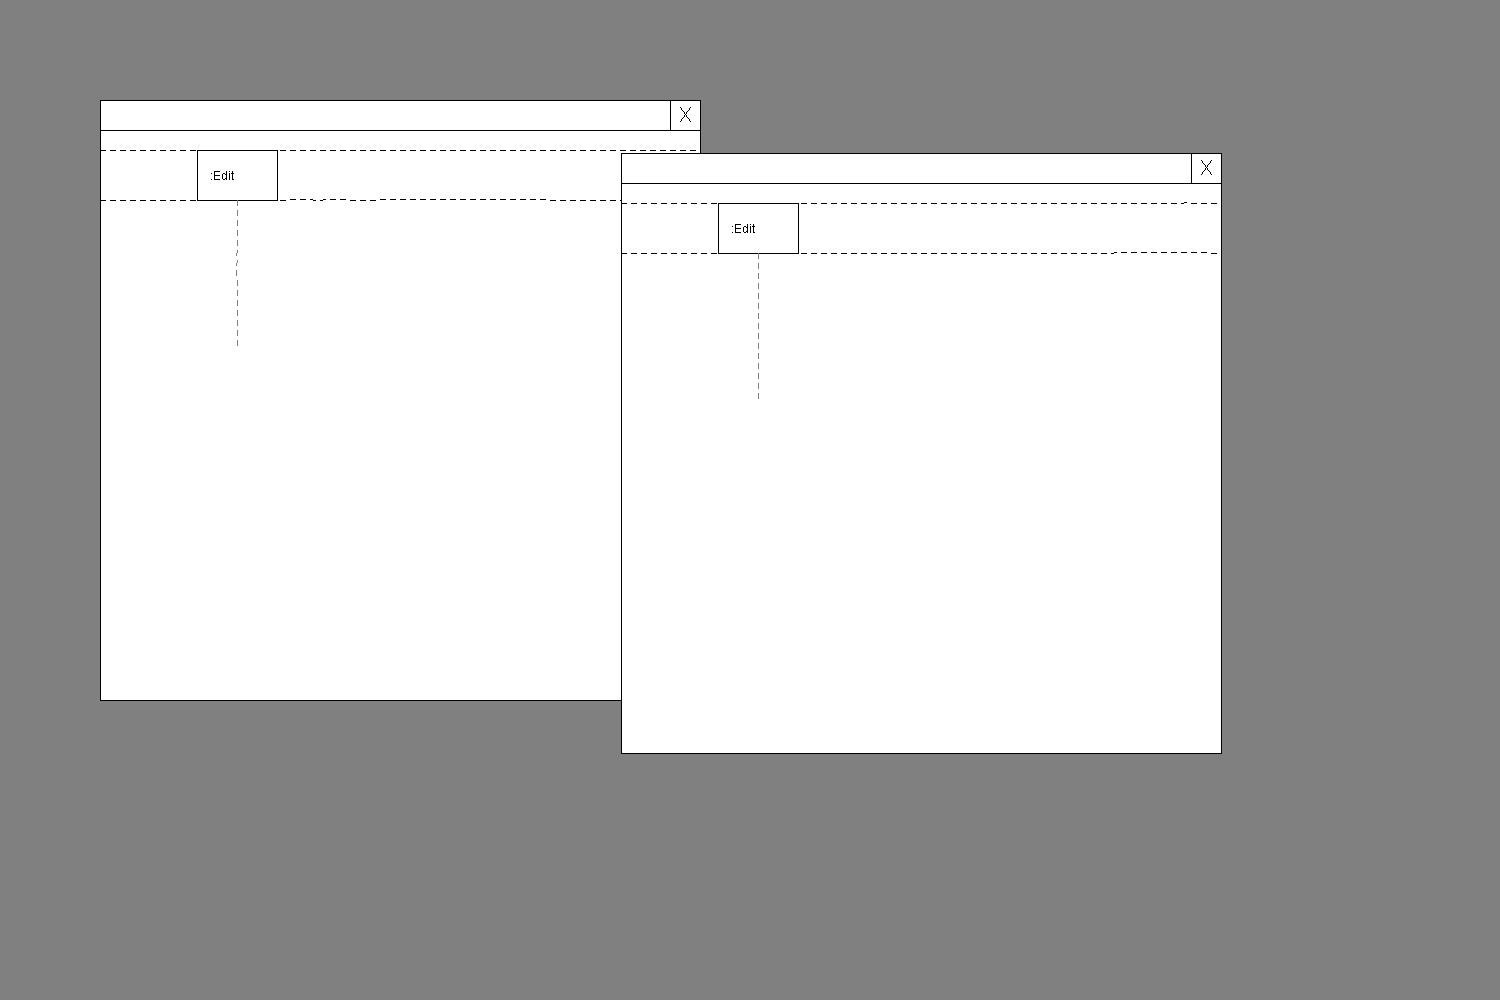
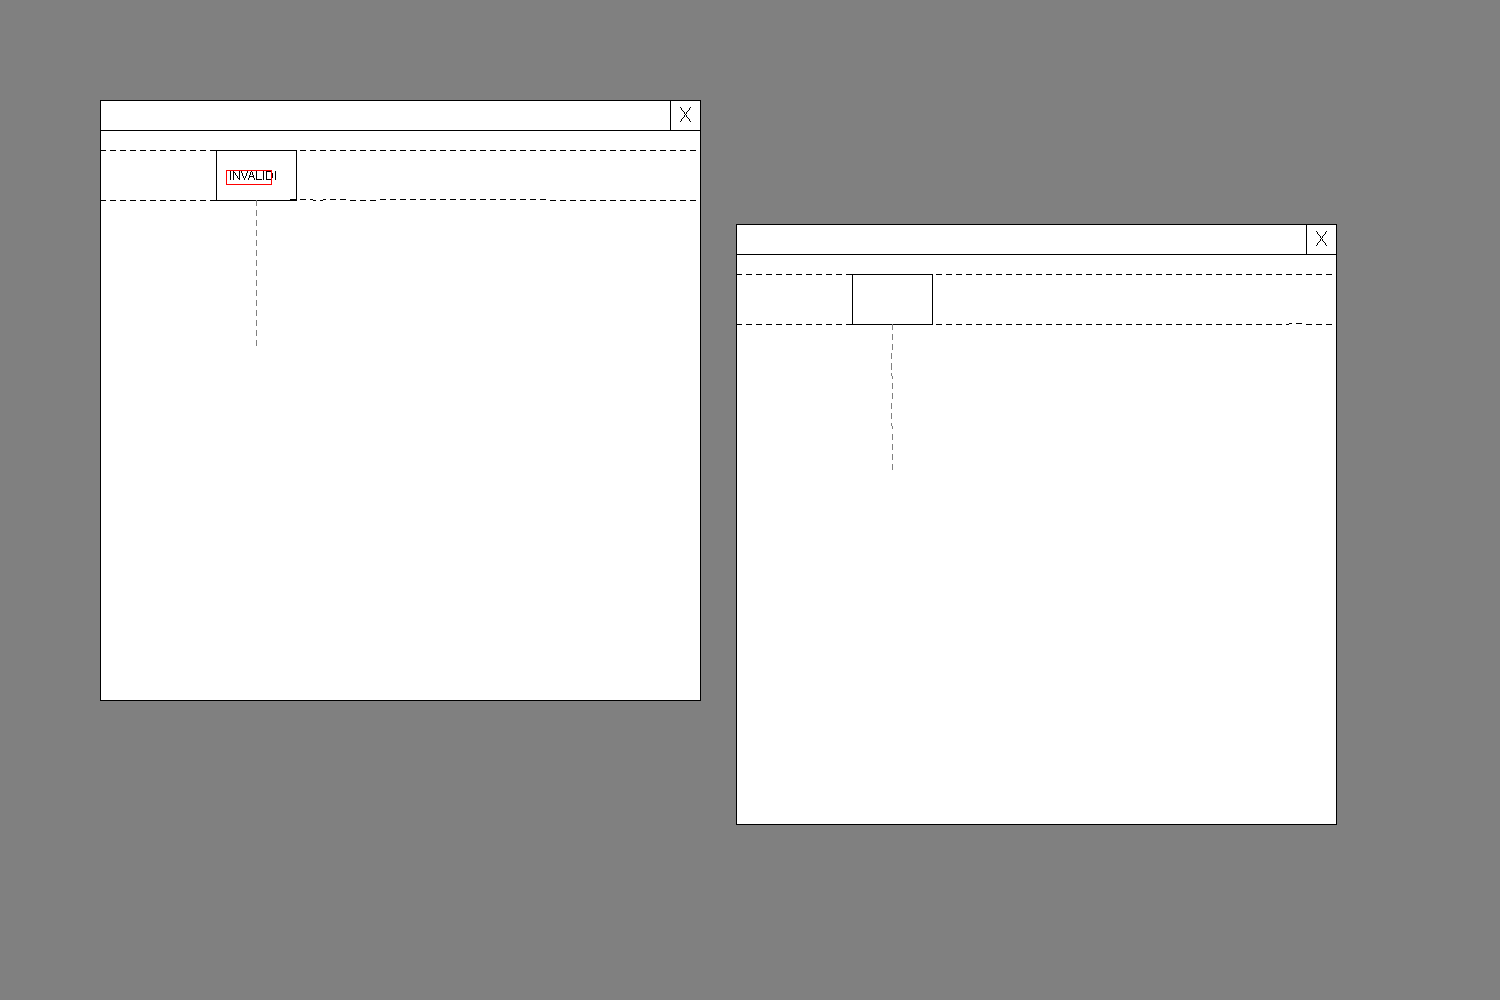
More

Changed region(s): [[0.3987, 0.155, 0.8893, 0.837], [0.1533, 0.155, 0.184, 0.186]]

diff --git a/UI/src/test/java/canvaswindow/InteractrCanvasTest.java b/UI/src/test/java/canvaswindow/InteractrCanvasTest.java
@@ -207,27 +207,33 @@ public class InteractrCanvasTest {
 
     @Test
     public void test_interactrCanvas_editLabel_with_multiple_subwindows() throws IOException, AWTException, InterruptedException{
-        interactrCanvas.handleMouseEvent(MouseEvent.MOUSE_CLICKED,197,175,2);
+        interactrCanvas.handleMouseEvent(MouseEvent.MOUSE_CLICKED,216,172,2);
         interactrCanvas.handleKeyEvent(KeyEvent.KEY_TYPED, 0,':');
         interactrCanvas.handleKeyEvent(KeyEvent.KEY_TYPED, 0,'E');
         interactrCanvas.handleKeyEvent(KeyEvent.KEY_TYPED, 0,'d');
         interactrCanvas.handleKeyEvent(KeyEvent.KEY_TYPED, 0,'i');
         interactrCanvas.handleKeyEvent(KeyEvent.KEY_TYPED, 0,'t');
-        interactrCanvas.handleMouseEvent(MouseEvent.MOUSE_PRESSED,351,108,1);
-        interactrCanvas.handleMouseEvent(MouseEvent.MOUSE_RELEASED,872,161,1);
-        interactrCanvas.handleMouseEvent(MouseEvent.MOUSE_PRESSED,628,283,1);
+        interactrCanvas.handleMouseEvent(MouseEvent.MOUSE_PRESSED,355,111,1);
+        interactrCanvas.handleMouseEvent(MouseEvent.MOUSE_RELEASED,991,235,1);
         interactrCanvas.handleKeyEvent(KeyEvent.KEY_PRESSED, 17, '0');
         interactrCanvas.handleKeyEvent(KeyEvent.KEY_PRESSED, 68, 'd');
-        interactrCanvas.handleMouseEvent(MouseEvent.MOUSE_CLICKED,197,175,2);
+        interactrCanvas.handleMouseEvent(MouseEvent.MOUSE_PRESSED,255,175,1);
+        interactrCanvas.handleMouseEvent(MouseEvent.MOUSE_RELEASED,255,175,1);
+        interactrCanvas.handleMouseEvent(MouseEvent.MOUSE_CLICKED,255,175,1);
+        interactrCanvas.handleMouseEvent(MouseEvent.MOUSE_PRESSED,255,175,1);
+        interactrCanvas.handleMouseEvent(MouseEvent.MOUSE_RELEASED,255,175,1);
+        interactrCanvas.handleMouseEvent(MouseEvent.MOUSE_CLICKED,255,175,1);
+        interactrCanvas.handleKeyEvent(KeyEvent.KEY_PRESSED, 8,'\b');
+        interactrCanvas.handleKeyEvent(KeyEvent.KEY_PRESSED, 8,'\b');
+        interactrCanvas.handleKeyEvent(KeyEvent.KEY_PRESSED, 8,'\b');
+        interactrCanvas.handleKeyEvent(KeyEvent.KEY_PRESSED, 8,'\b');
+        interactrCanvas.handleKeyEvent(KeyEvent.KEY_PRESSED, 8,'\b');
+        interactrCanvas.handleKeyEvent(KeyEvent.KEY_TYPED, 0,'I');
         interactrCanvas.handleKeyEvent(KeyEvent.KEY_TYPED, 0,'N');
-        interactrCanvas.handleKeyEvent(KeyEvent.KEY_TYPED, 0,'O');
-        interactrCanvas.handleKeyEvent(KeyEvent.KEY_TYPED, 0,'T');
+        interactrCanvas.handleKeyEvent(KeyEvent.KEY_TYPED, 0,'V');
         interactrCanvas.handleKeyEvent(KeyEvent.KEY_TYPED, 0,'A');
         interactrCanvas.handleKeyEvent(KeyEvent.KEY_TYPED, 0,'L');
-        interactrCanvas.handleKeyEvent(KeyEvent.KEY_TYPED, 0,'L');
-        interactrCanvas.handleKeyEvent(KeyEvent.KEY_TYPED, 0,'O');
-        interactrCanvas.handleKeyEvent(KeyEvent.KEY_TYPED, 0,'W');
-        interactrCanvas.handleKeyEvent(KeyEvent.KEY_TYPED, 0,'E');
+        interactrCanvas.handleKeyEvent(KeyEvent.KEY_TYPED, 0,'I');
         interactrCanvas.handleKeyEvent(KeyEvent.KEY_TYPED, 0,'D');
         TimeUnit.SECONDS.sleep(2);
         this.screenshot("test_interactrCanvas_editLabel_with_multiple_subwindows.png");
